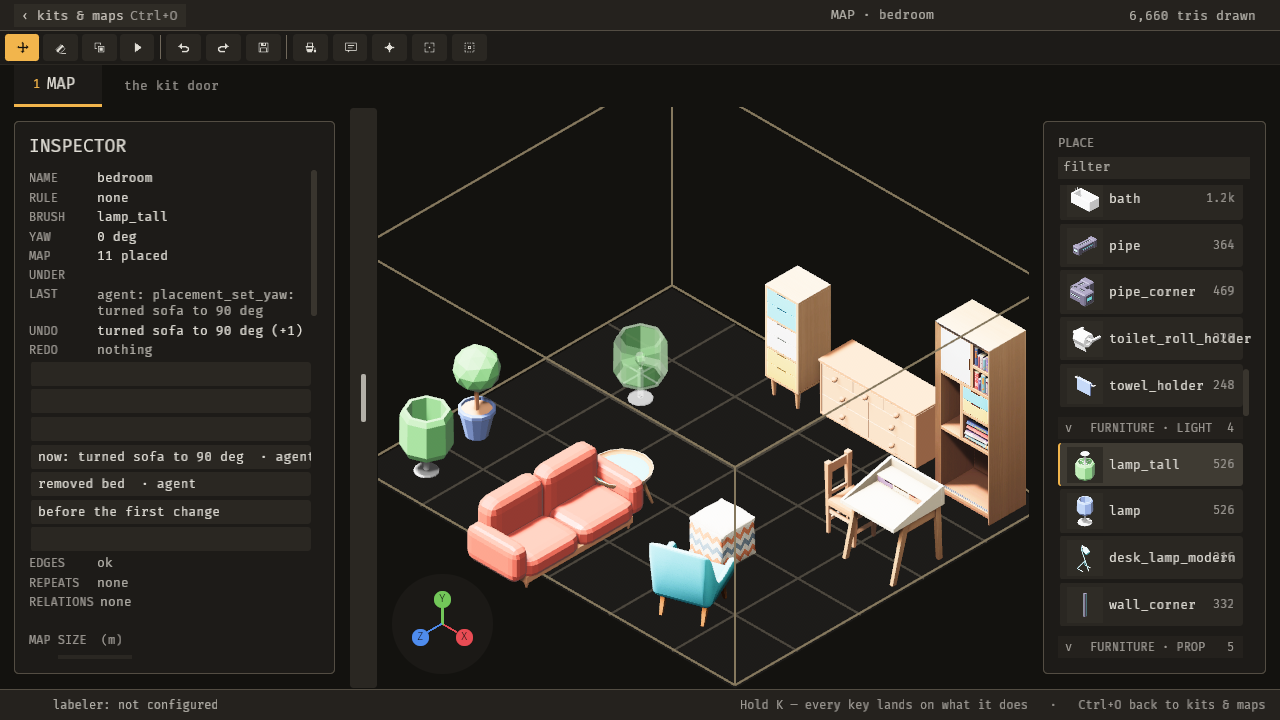
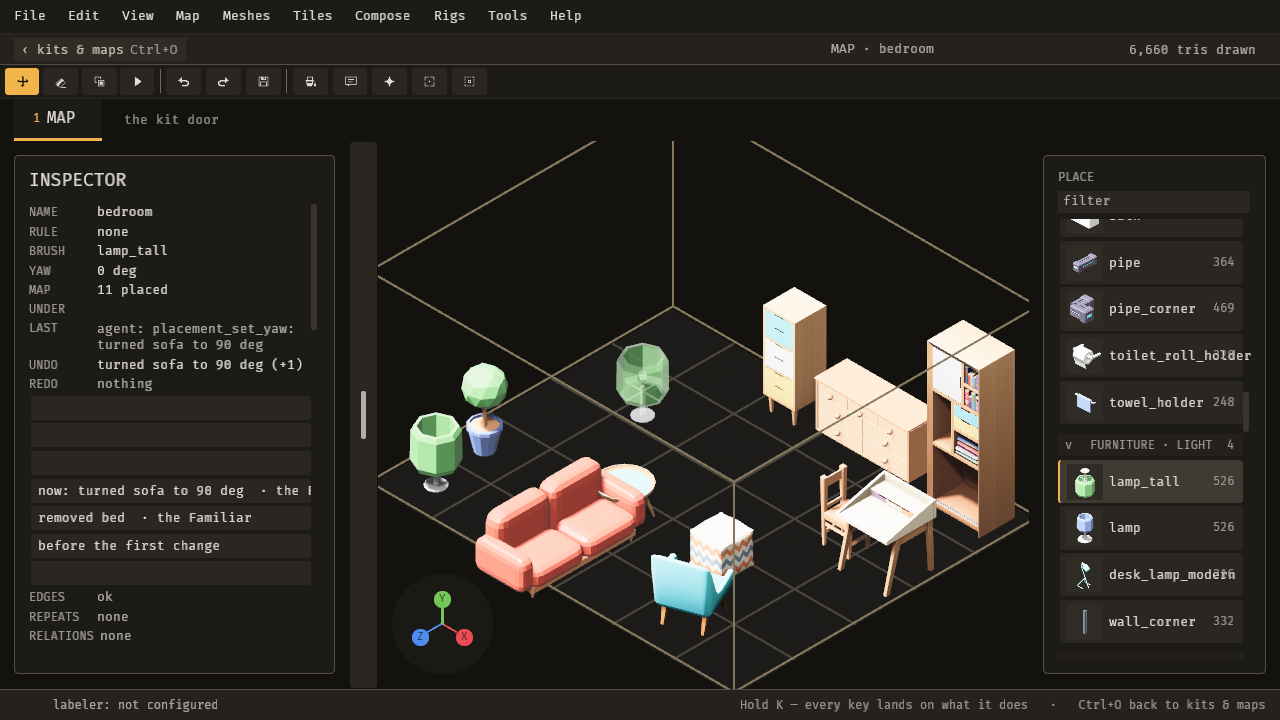
docs(media): five standing demos show the menu bar; three storyboards aim by label
place-and-undo, agent-removes-then-undo, build-a-map, move-the-camera and editor.png re-recorded at 200ca85
(check.py PASS, contact sheets read; editor.png shows File..Help along the top). Two storyboards had their
palette clicks as fixed pixels and now use click_label (the repo's own rule): the PLACE filter and the sofa
row.

Owed demos, recorded here as owed rather than shipped: hero, agent-drives, frame-the-map, review-labels.
hero fails check.py at its drag press (2.87% against 5%), agent-drives on two change moments (0.02%,
0.19%), frame-the-map on scene fraction 28% against 40% because the framed room is mostly black, and
review-labels on a 2.00 s static run. The machine was under GitHub Actions pods (load 40-80) for the whole
attempt, which is not the whole cause of those four; each has its own number in the log line.

diff --git a/docs/media/README.md b/docs/media/README.md
@@ -5,14 +5,14 @@ The README's and the guide's GIFs, recorded from the running editor by a storybo
 | File | Command | Captured | Shows |
 |---|---|---|---|
 | `agent-drives.gif` | `python3 tools/demo/record.py tools/demo/storyboards/agent_drives.json --port 15710 --project <project>`, then `python3 tools/demo/render.py <project>/target/loop/demo/agent_drives/events.json --out docs/media/agent-drives.gif --width 600` | 2026-11-03 a21251a | 78 frames, 600 x 528, at 15 fps, cropped to the 3D view with the bed, the dresser, the coffee table, the sofa, the pouffe and the armchair in frame (the view is framed on `[-3.0, -2.0, 0.8, 2.6]`): an agent removes the bed, then turns the sofa 90 degrees, then Ctrl+Z takes back the turn and Ctrl+Z again brings the bed back, each step captioned |
-| `agent-removes-then-undo.gif` | `python3 tools/demo/record.py tools/demo/storyboards/agent_removes_then_undo.json --port 15710 --project <project>`, then `python3 tools/demo/render.py <project>/target/loop/demo/agent_removes_then_undo/events.json --out docs/media/agent-removes-then-undo.gif --width 600` | 2026-11-03 a21251a | 50 frames, 600 x 752, at 15 fps, cropped to the 3D view: the bed is in the room, an agent removes it with `placement_remove` (the floor shows where it stood, the brush's ghost lamp stays), then Ctrl+Z puts the bed back |
-| `build-a-map.gif` | `python3 tools/demo/record.py tools/demo/storyboards/build_a_map.json --port 15710 --project <project>`, then `python3 tools/demo/render.py <project>/target/loop/demo/build_a_map/events.json --out docs/media/build-a-map.gif --width 760` | 2026-11-03 a21251a | 80 frames, 760 x 1036, at 10 fps, cropped to the 3D view only (the PLACE list, where the filter is typed and the row is clicked, is outside the crop and not on screen): a sofa is armed (a ghost sofa follows the cursor), R turns it a quarter turn, a click places it, X and a click remove it, Ctrl+Z brings it back, each step captioned |
+| `agent-removes-then-undo.gif` | `python3 tools/demo/record.py tools/demo/storyboards/agent_removes_then_undo.json --port 15710 --project <project>`, then `python3 tools/demo/render.py <project>/target/loop/demo/agent_removes_then_undo/events.json --out docs/media/agent-removes-then-undo.gif --width 600` | 2026-11-04 200ca85 | 53 frames, 600 x 752, at 15 fps, cropped to the 3D view from the top of the toolbar down (the menu bar and the title row above it are outside the crop): the bed is in the room with the brush's ghost lamp on it, an agent removes it with `placement_remove` (the floor shows where it stood, the ghost lamp stays), then Ctrl+Z puts the bed back |
+| `build-a-map.gif` | `python3 tools/demo/record.py tools/demo/storyboards/build_a_map.json --port 15710 --project <project>`, then `python3 tools/demo/render.py <project>/target/loop/demo/build_a_map/events.json --out docs/media/build-a-map.gif --width 760` | 2026-11-04 200ca85 | 82 frames, 760 x 1036, at 10 fps, cropped to the 3D view only (the PLACE list, where the filter is typed and the row is clicked, is outside the crop and not on screen; the menu bar is above it): a sofa is armed (a ghost sofa follows the cursor), R turns it a quarter turn, a click places it, X and a click remove it, Ctrl+Z brings it back, each step captioned |
 | `frame-the-map.gif` | `python3 tools/demo/record.py tools/demo/storyboards/frame_the_map.json --port 15710 --project <project>`, then `python3 tools/demo/render.py <project>/target/loop/demo/frame_the_map/events.json --out docs/media/frame-the-map.gif --width 520` | 2026-11-03 a21251a | 47 frames, 520 x 512, at 15 fps, cropped to the whole 3D viewport: the view zoomed in on the bed, then Home frames the whole 6 x 5 m room, every wall and piece inside the frame |
 | `hero.gif` | `python3 tools/demo/record.py tools/demo/storyboards/hero.json --port 15710 --project <project>`, then `python3 tools/demo/render.py <project>/target/loop/demo/hero/events.json --out docs/media/hero.gif --width 600` | 2026-11-03 a21251a | 119 frames, 600 x 588, at 15 fps, cropped to the 3D view: Ctrl+\ arms the snip tool, a box is dragged round the bed, the note `remove the bed` is typed and saved with Enter, the agent reads the snip and removes the bed, Ctrl+Z puts the bed back |
-| `move-the-camera.gif` | `python3 tools/demo/record.py tools/demo/storyboards/move_the_camera.json --port 15710 --project <project>`, then `python3 tools/demo/render.py <project>/target/loop/demo/move_the_camera/events.json --out docs/media/move-the-camera.gif --width 600` | 2026-11-03 a21251a | 41 frames, 600 x 752, at 8 fps, cropped to the 3D view of the bedroom: A and D are tapped (keycaps shown) and the view pans left and right over the bed, the coffee table and the sofa |
-| `place-and-undo.gif` | `python3 tools/demo/record.py tools/demo/storyboards/place_and_undo.json --port 15710 --project <project>`, then `python3 tools/demo/render.py <project>/target/loop/demo/place_and_undo/events.json --out docs/media/place-and-undo.gif --width 760` | 2026-11-03 a21251a | 50 frames, 760 x 629, at 10 fps, cropped to the 3D view and the PLACE dock: `sofa` is typed in the filter so the list holds one row, the sofa is armed from it, a click places it on the floor, Ctrl+Z takes it back |
+| `move-the-camera.gif` | `python3 tools/demo/record.py tools/demo/storyboards/move_the_camera.json --port 15710 --project <project>`, then `python3 tools/demo/render.py <project>/target/loop/demo/move_the_camera/events.json --out docs/media/move-the-camera.gif --width 600` | 2026-11-04 200ca85 | 42 frames, 600 x 752, at 8 fps, cropped to the 3D view of the bedroom from the top of the toolbar down (the menu bar is outside the crop): A and D are tapped (keycaps shown) and the view pans left and right over the bed, the coffee table, the sofa and the potted tree |
+| `place-and-undo.gif` | `python3 tools/demo/record.py tools/demo/storyboards/place_and_undo.json --port 15710 --project <project>`, then `python3 tools/demo/render.py <project>/target/loop/demo/place_and_undo/events.json --out docs/media/place-and-undo.gif --width 760` | 2026-11-04 200ca85 | 51 frames, 760 x 629, at 10 fps, cropped to the 3D view and the PLACE dock from the top of the toolbar down (the menu bar is outside the crop): `sofa` is typed in the filter so the list holds one row, the sofa is armed from it, a click places it on the floor, Ctrl+Z takes it back and leaves the ghost sofa armed |
 | `review-labels.gif` | `python3 tools/demo/record.py tools/demo/storyboards/review_labels.json --port 15710 --project <project>`, then `python3 tools/demo/render.py <project>/target/loop/demo/review_labels/events.json --out docs/media/review-labels.gif --width 900` | 2026-11-03 a21251a | 65 frames, 900 x 550, at 10 fps, the whole editor window: on the map door an agent lists the pieces a model labelled, the editor crosses to the kit door's Meshes tab, the arrow keys walk the piece list (chair, console, bed, cart, counter, data_folder), and the inspector's labels row reads `confidence high`, the model (`qwen3-vl`) and the date |
-| `editor.png` | `import -window root -crop 1280x720+0+0 docs/media/editor.png` on the Xvfb display, with the editor on the bedroom map, the view framed `[-2.6, -2.1, 2.6, 2.1]` by `grimoire_frame_view`, then `placement_remove bed` and `placement_set_yaw sofa 90` through MCP (`tools/demo/record.py`'s `McpClient`) | 2026-11-03 a21251a | the whole editor window (1280 x 720) after those two agent changes: BRUSH reads `lamp_tall`, MAP reads 11 placed, the inspector's LAST line, UNDO and the history list name the two changes as the agent's, the room is drawn without the bed and with the sofa turned (the walls run past the viewport's edges), the inspector dock fills the left (about 320 px) and the PLACE palette on the right is scrolled to the furniture kit's light group with `lamp_tall` highlighted |
+| `editor.png` | `import -window root -crop 1280x720+0+0 docs/media/editor.png` on the Xvfb display, with the editor on the bedroom map, the view framed `[-2.6, -2.1, 2.6, 2.1]` by `grimoire_frame_view`, then `placement_remove bed` and `placement_set_yaw sofa 90` through MCP (`tools/demo/record.py`'s `McpClient`) | 2026-11-04 200ca85 | the whole editor window (1280 x 720) after those two agent changes, with the menu bar (File, Edit, View, Map, Meshes, Tiles, Compose, Rigs, Tools, Help) along the top, the `kits & maps` bar and toolbar below it: BRUSH reads `lamp_tall`, MAP reads 11 placed, the inspector's LAST line, UNDO and the history list name the two changes as the agent's, the room is drawn without the bed and with the sofa turned (the walls run past the viewport's edges), the inspector dock fills the left (about 320 px) and the PLACE palette on the right is scrolled to the furniture kit's light group with `lamp_tall` highlighted |
 
 ## Art
 
